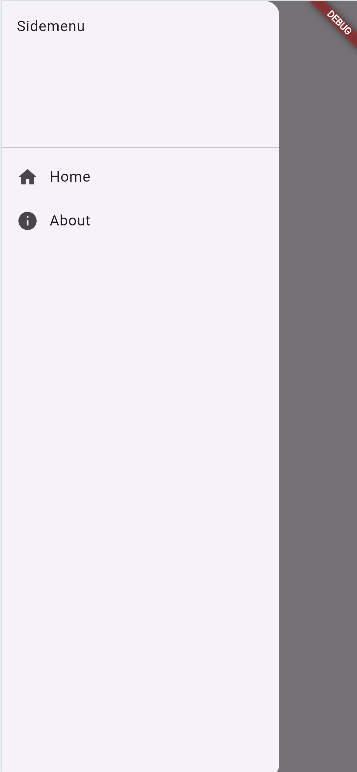
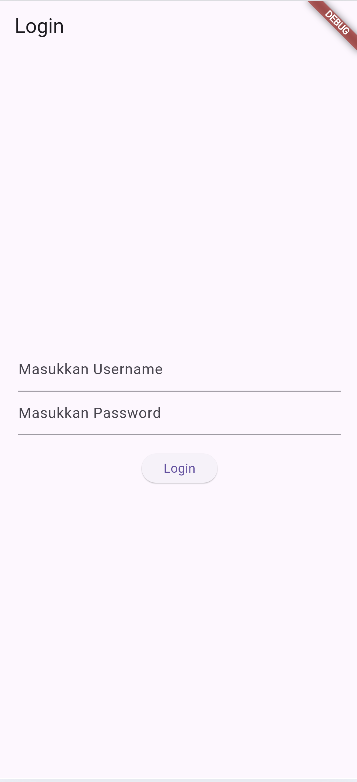
melengkapi display readme

diff --git a/README.md b/README.md
@@ -9,7 +9,7 @@
 
 ### Display 
 <p align="center">
-  <img src="images/gambar2.jpeg" width="200">
-  <img src="images/gambar22.jpeg" width="200">
-  <img src="images/gambar23.jpeg" width="200">
+  <img src="images/gambar2.png" width="200">
+  <img src="images/gambar22.png" width="200">
+  <img src="images/gambar23.png" width="200">
 </p>
